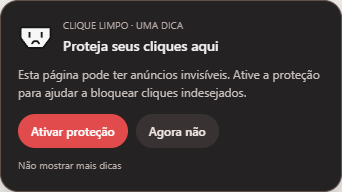
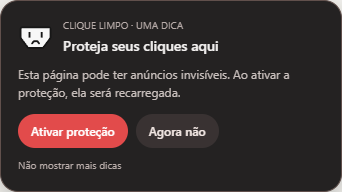
Simplifica painel e recarrega a pagina ao ativar a protecao

Changed region(s): [[0.0585, 0.4375, 0.731, 0.5312], [0.7018, 0.375, 0.9357, 0.4375]]

diff --git a/clique-limpo/popup.css b/clique-limpo/popup.css
@@ -44,13 +44,10 @@ button:focus-visible, .switch input:focus-visible + span { outline: 2px solid #f
 .activation-button[aria-pressed="true"]:active:enabled { box-shadow: 0 1px 0 #0c0c0c, inset 0 -2px 0 #b63838; }
 .activation-button img { width: 64px; height: 56px; pointer-events: none; }
 #state-label { font-size: 15px; font-weight: 600; margin-top: 10px; }
-#toggle-hint { color: var(--muted); font-size: 11px; margin: 3px 0 0; }
-#description { color: var(--muted); font-size: 11px; line-height: 1.5; margin: 6px 0 0; max-width: 330px; }
 .card { background: #242222; border: 1px solid #383333; border-radius: 16px; padding: 10px 14px; }
 .protection { display: flex; align-items: center; justify-content: space-between; gap: 12px; }
 .tracking .option-label { font-size: 12px; font-weight: 600; }
 .tracking small { display: block; color: var(--muted); font-size: 10px; margin-top: 2px; }
-.tracking p { font-size: 10.5px; color: var(--muted); line-height: 1.5; margin: 7px 0 0; }
 .switch { position: relative; display: inline-flex; flex-shrink: 0; cursor: pointer; }
 .switch input { position: absolute; opacity: 0; width: 42px; height: 24px; margin: 0; z-index: 1; cursor: pointer; }
 .switch span { display: block; width: 42px; height: 24px; border: 1px solid #79706c; background: #393434; border-radius: 99px; pointer-events: none; transition: background .15s; }
@@ -58,12 +55,11 @@ button:focus-visible, .switch input:focus-visible + span { outline: 2px solid #f
 .switch input:checked + span { background: var(--accent); border-color: var(--accent); }
 .switch input:checked + span::before { transform: translateX(18px); background: #fff4f2; }
 .switch input:disabled + span { opacity: .45; }
-.stats-container { display: grid; grid-template-columns: 1fr 1fr; gap: 12px; margin-top: 10px; }
+.stats-container { display: grid; grid-template-columns: 1fr 1fr; gap: 12px; margin: 14px 0; }
 .stat-card { display: flex; align-items: center; gap: 9px; }
 .stat-card + .stat-card { border-left: 1px solid #383333; padding-left: 13px; }
 .stat-card strong { font-size: 25px; font-weight: 600; font-variant-numeric: tabular-nums; }
 .stat-card span { color: var(--muted); font-size: 10px; line-height: 1.35; }
-.scope { font-size: 9px; color: #a69e9b; margin: 6px 0 12px; }
 .actions { display: flex; flex-direction: column; gap: 7px; }
 .actions button { width: 100%; font-size: 11px; font-weight: 600; border-radius: 20px; padding: 8px 12px; }
 .primary { background: #f2eeeb; color: #252121; display: flex; align-items: center; justify-content: space-between; }
@@ -75,6 +71,11 @@ button:focus-visible, .switch input:focus-visible + span { outline: 2px solid #f
 #feedback { padding: 9px 11px; background: #332b29; border-radius: 10px; color: #eed7cf; font-size: 11px; margin: 10px 0 0; }
 #feedback:empty { display: none; }
 footer { color: #a69e9b; font-size: 9px; margin-top: 7px; display: flex; align-items: center; justify-content: space-between; gap: 8px; }
+.github-link { display: grid; place-items: center; width: 32px; height: 32px; border-radius: 8px; }
+.github-link img { width: 20px; height: 20px; opacity: .8; filter: brightness(0) invert(1); }
+.github-link:hover { background: #302b2a; }
+.github-link:hover img { opacity: 1; }
+.github-link:focus-visible { outline: 2px solid #ffaaaa; outline-offset: 2px; }
 #tips-toggle { font: inherit; color: #d3bdb8; background: transparent; padding: 4px 0; border-radius: 4px; text-decoration: underline; text-underline-offset: 3px; }
 .welcome { margin-bottom: 14px; border-color: #6c4343; }
 .welcome h2 { font-size: 13px; margin: 0 0 6px; }

diff --git a/clique-limpo/background.js b/clique-limpo/background.js
@@ -169,11 +169,14 @@ chrome.storage.onChanged.addListener((changes, area) => {
     await Promise.all(tabs.filter(tab => changes[`site:${hostname(tab.url)}`]).map(tab => notifyPage(tab.id)));
   });
 });
-async function setPageEnabled(message) {
+async function setPageEnabled(message, { reloadOnActivation = false } = {}) {
   const page = await currentPage(message.tabId);
   if (!supported(page?.url) || !message.documentId || page.documentId !== message.documentId || page.url !== message.pageUrl) {
     throw new Error("A página mudou. Reabra o painel para ativar a página atual.");
   }
+  const key = pageKey(message.tabId);
+  const previous = await chrome.storage.session.get(key);
+  const shouldReload = reloadOnActivation && message.enabled === true && !sameSite(previous[key], page.url);
   if (message.enabled === true) {
     await chrome.storage.session.set({ [pageKey(message.tabId)]: { enabled: true, origin: siteOrigin(page.url) } });
   } else {
@@ -181,7 +184,15 @@ async function setPageEnabled(message) {
   }
   await syncNetworkRules();
   await Promise.all([notifyPage(message.tabId), updateIcon(message.tabId)]);
-  return { ok: true };
+  if (shouldReload) {
+    const current = await currentPage(message.tabId);
+    // A fresh internal navigation already loads with protection; do not reload it again.
+    if (current?.documentId === page.documentId && current.url === page.url) {
+      await chrome.tabs.reload(message.tabId);
+      return { ok: true, reloaded: true };
+    }
+  }
+  return { ok: true, reloaded: false };
 }
 async function claimHint(message, sender) {
   if (sender.frameId !== 0) return { show: false };
@@ -215,7 +226,7 @@ chrome.runtime.onMessage.addListener((message, sender, respond) => {
   }
   if (Number.isInteger(sender.tab?.id) && sender.frameId === 0 && message?.type === 'ACTIVATE_FROM_HINT') {
     void enqueue(async () => {
-      const result = await setPageEnabled({ ...message, tabId: sender.tab.id, enabled: true });
+      const result = await setPageEnabled({ ...message, tabId: sender.tab.id, enabled: true }, { reloadOnActivation: true });
       await chrome.storage.local.set({ 'help:welcomeSeen': true });
       return result;
     }).then(respond, error => respond({ ok: false, error: error.message }));
@@ -230,6 +241,6 @@ chrome.runtime.onMessage.addListener((message, sender, respond) => {
     return true;
   }
   if (message?.type !== "SET_PAGE_ENABLED") return;
-  void enqueue(() => setPageEnabled(message)).then(respond, error => respond({ ok: false, error: error.message }));
+  void enqueue(() => setPageEnabled(message, { reloadOnActivation: true })).then(respond, error => respond({ ok: false, error: error.message }));
   return true;
 });

diff --git a/clique-limpo/popup.js b/clique-limpo/popup.js
@@ -41,7 +41,6 @@ function render(next) {
   const face = `icons/face-${next.enabled ? "active" : "inactive"}.svg`;
   $("activation-face").src = face;
   $("brand-face").src = face;
-  $("toggle-hint").textContent = next.enabled ? "Toque na carinha para desativar" : "Toque na carinha para ativar";
   $("enabled").disabled = busy;
   $("compatibility").checked = next.compatibility === true;
   $("compatibility").disabled = busy;
@@ -56,7 +55,6 @@ function render(next) {
   $("scan").disabled = busy || !next.enabled;
   $("pick").disabled = busy || !next.enabled;
   $("restore").disabled = busy || !next.enabled && !next.hidden;
-  $("description").textContent = next.enabled ? "Segue neste site. Pausa ao trocar de aba." : "Ative manualmente para proteger este site nesta aba.";
 }
 
 async function readStatus() {
@@ -66,12 +64,15 @@ async function readStatus() {
 }
 
 async function toggle(enabled) {
+  const previousDocumentId = state.documentId;
   const result = await chrome.runtime.sendMessage({ type: "SET_PAGE_ENABLED", tabId, enabled, documentId: state.documentId, pageUrl: state.pageUrl });
   if (!result?.ok) throw new Error(result?.error || "Não foi possível alterar a proteção desta página.");
-  for (let attempt = 0; attempt < 15; attempt++) {
-    await new Promise(resolve => setTimeout(resolve, 60));
-    const next = await chrome.tabs.sendMessage(tabId, { type: "STATUS" }, { frameId: 0 });
-    if (next?.ready && next.enabled === enabled) { render(next); return; }
+  for (let attempt = 0; attempt < (result.reloaded ? 60 : 15); attempt++) {
+    await new Promise(resolve => setTimeout(resolve, result.reloaded ? 100 : 60));
+    try {
+      const next = await chrome.tabs.sendMessage(tabId, { type: "STATUS" }, { frameId: 0 });
+      if (next?.ready && next.enabled === enabled && (!result.reloaded || next.documentId !== previousDocumentId)) { render(next); return; }
+    } catch (error) { if (!result.reloaded) throw error; }
   }
   throw new Error("Reabra o painel para conferir a proteção desta página.");
 }
@@ -136,8 +137,6 @@ $("restore").addEventListener("click", () => void act(async () => {
     $("state-label").textContent = "Proteção indisponível";
     $("status-pill").textContent = "Indisponível";
     $("status-pill").className = "status-pill";
-    $("toggle-hint").textContent = "Abra uma página para usar a proteção";
-    $("description").textContent = "Após instalar a extensão, recarregue as abas que já estavam abertas.";
     $("feedback").textContent = error.message;
   }
 })();

diff --git a/clique-limpo/popup.html b/clique-limpo/popup.html
@@ -11,9 +11,9 @@
     <img id="brand-face" class="mark" src="icons/face-inactive.svg" alt="" aria-hidden="true">
     <div>
       <h1>Clique Limpo</h1>
-      <p>Seu clique, sua escolha.</p>
+      <p id="reload-notice">Ao ativar, a página será recarregada.</p>
     </div>
-    <span class="version-badge">v1.0.0</span>
+    <span class="version-badge">v1.0.1</span>
   </header>
   <main>
     <aside id="welcome" class="welcome card" hidden aria-labelledby="welcome-title">
@@ -28,12 +28,10 @@
         <span id="status-pill" class="status-pill">Verificando</span>
       </div>
       <div class="activation">
-        <button id="enabled" class="activation-button" type="button" aria-pressed="false" aria-label="Ativar proteção nesta página" aria-describedby="state-label toggle-hint" disabled>
+        <button id="enabled" class="activation-button" type="button" aria-pressed="false" aria-label="Ativar proteção nesta página" aria-describedby="state-label reload-notice" disabled>
           <img id="activation-face" src="icons/face-inactive.svg" alt="" aria-hidden="true">
         </button>
         <span id="state-label">Verificando proteção</span>
-        <p id="toggle-hint">Um toque para ativar ou pausar</p>
-        <p id="description">A proteção procura camadas invisíveis acima do conteúdo.</p>
       </div>
     </section>
 
@@ -48,7 +46,6 @@
           <span></span>
         </label>
       </div>
-      <p>Ajuda o player a iniciar sem liberar pop-ups.</p>
     </section>
 
     <div class="stats-container">
@@ -61,7 +58,6 @@
         <span>eventos interceptados</span>
       </div>
     </div>
-    <p class="scope">Contadores da página principal, nesta visita.</p>
 
     <div class="actions">
       <button id="scan" class="primary" disabled>
@@ -75,7 +71,9 @@
     <p id="feedback" role="status" aria-live="polite"></p>
 
     <footer>
-      <span>Sem conta ou assinatura.</span>
+      <a class="github-link" href="https://github.com/emanuelz-martins/clique-limpo" target="_blank" rel="noopener noreferrer" aria-label="Abrir o repositório do Clique Limpo no GitHub" title="Repositório no GitHub">
+        <img src="icons/github.svg" alt="" aria-hidden="true">
+      </a>
       <button id="tips-toggle" type="button" aria-pressed="true" title="Mostrar dicas para ativar a proteção em páginas suspeitas">Dicas ativadas</button>
     </footer>
   </main>

diff --git a/clique-limpo/tips.js b/clique-limpo/tips.js
@@ -94,7 +94,7 @@
       .actions{display:flex;gap:8px;margin-top:13px}button{font:600 12px "Segoe UI",Arial,sans-serif;cursor:pointer;border:0;border-radius:20px;min-height:34px;padding:8px 13px}.activate{background:#e24b4b;color:#fff}.later{background:#393232;color:#f4e9e5}button:focus-visible{outline:2px solid #ffb6b6;outline-offset:3px}button:disabled{opacity:.5;cursor:default}.mute{background:transparent;color:#b9adaa;font-size:10px;font-weight:400;padding:8px 0 0;min-height:26px}.error{color:#ffb6b6;margin:8px 0 0}[hidden]{display:none}
     </style><aside class="tip" role="status" aria-live="polite" aria-label="Dica do Clique Limpo">
       <div class="heading"><div class="face" aria-hidden="true">${face}</div><div><div class="brand">CLIQUE LIMPO · UMA DICA</div><h2>Proteja seus cliques aqui</h2></div></div>
-      <p>Esta página pode ter anúncios invisíveis. Ative a proteção para ajudar a bloquear cliques indesejados.</p>
+      <p>Esta página pode ter anúncios invisíveis. Ao ativar a proteção, ela será recarregada.</p>
       <div class="actions"><button class="activate" data-action="activate">Ativar proteção</button><button class="later" data-action="later">Agora não</button></div>
       <button class="mute" data-action="mute">Não mostrar mais dicas</button><p class="error" hidden></p>
     </aside>`;

diff --git a/docs/PUBLICACAO.md b/docs/PUBLICACAO.md
@@ -11,8 +11,8 @@ Para oferecer um botão de instalação com confirmação do navegador, é neces
 Atualize versão e documentação, execute as verificações e envie o commit para `main`. Depois crie a tag correspondente:
 
 ```powershell
-git tag v1.0.0
-git push origin v1.0.0
+git tag v1.0.1
+git push origin v1.0.1
 ```
 
 O workflow **Validar e distribuir** testa em Edge com perfil isolado. Após os testes passarem, publica os pacotes:

diff --git a/docs/PRIVACIDADE.md b/docs/PRIVACIDADE.md
@@ -1,6 +1,6 @@
 # Política de privacidade
 
-Esta política descreve o comportamento do Clique Limpo 1.0.0.
+Esta política descreve o comportamento do Clique Limpo 1.0.1.
 
 ## Processamento de páginas
 
